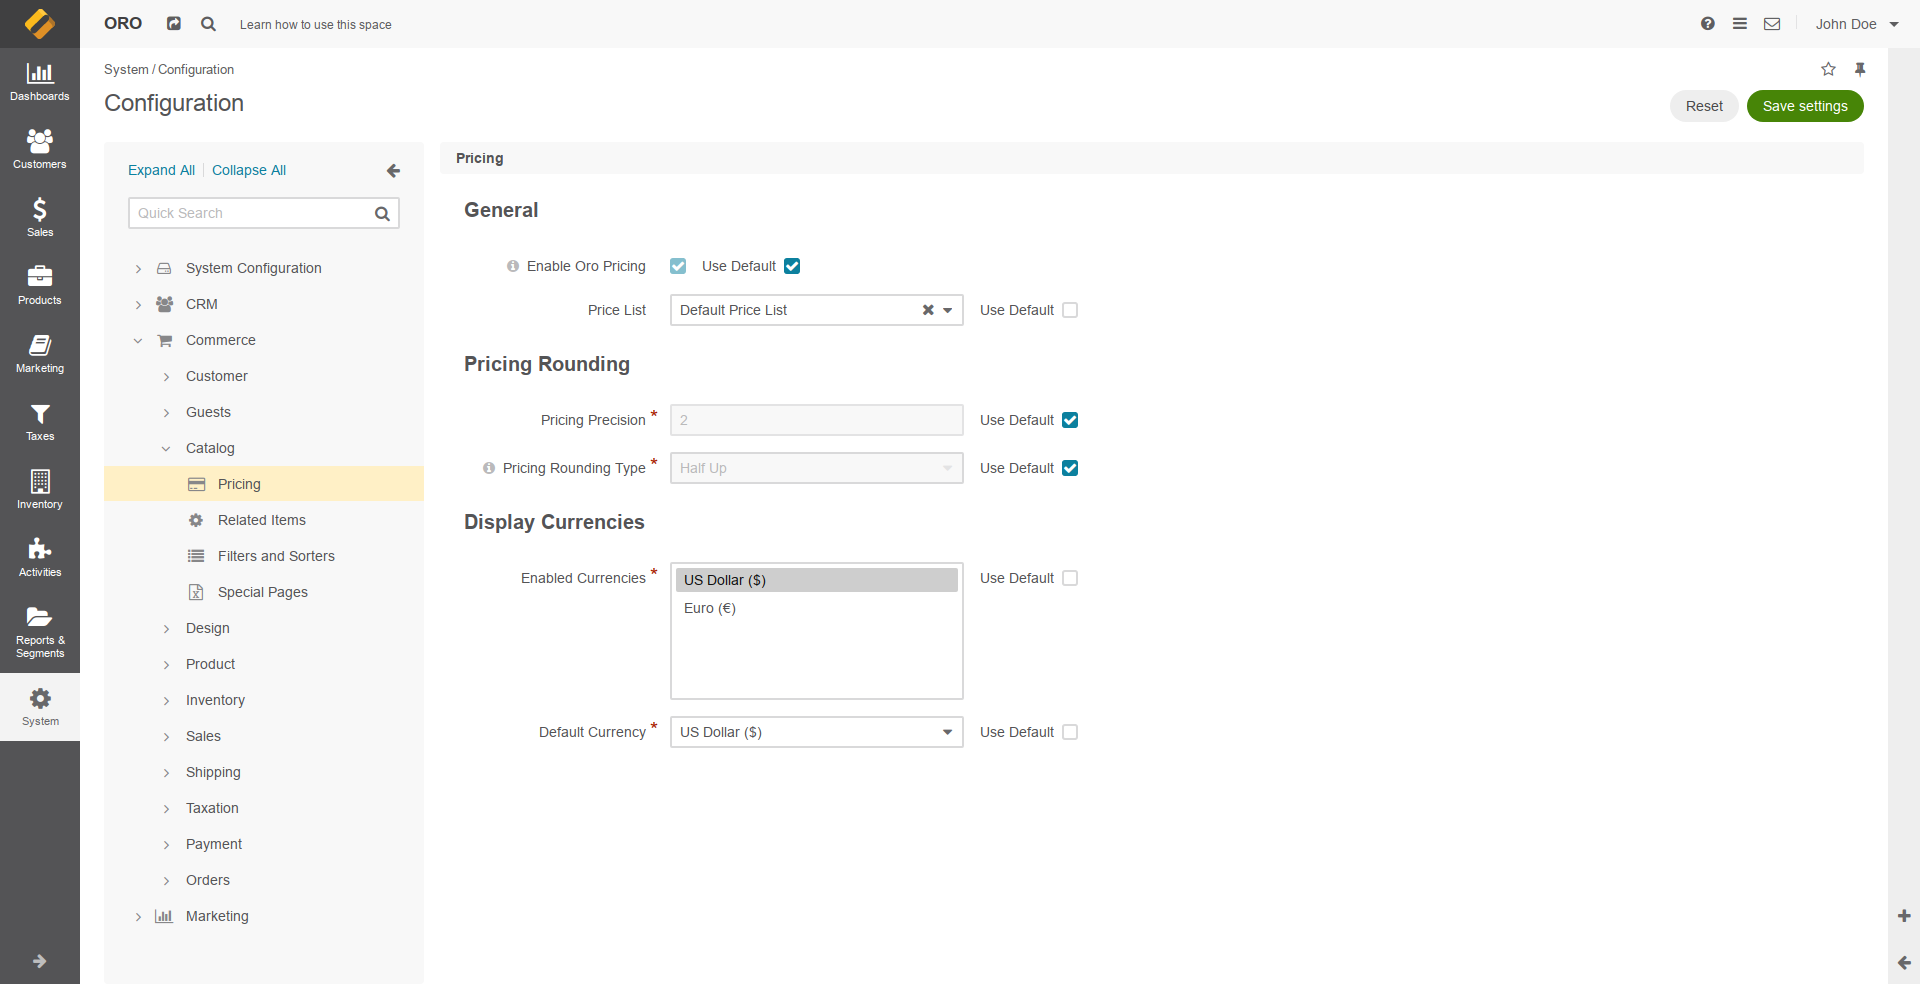
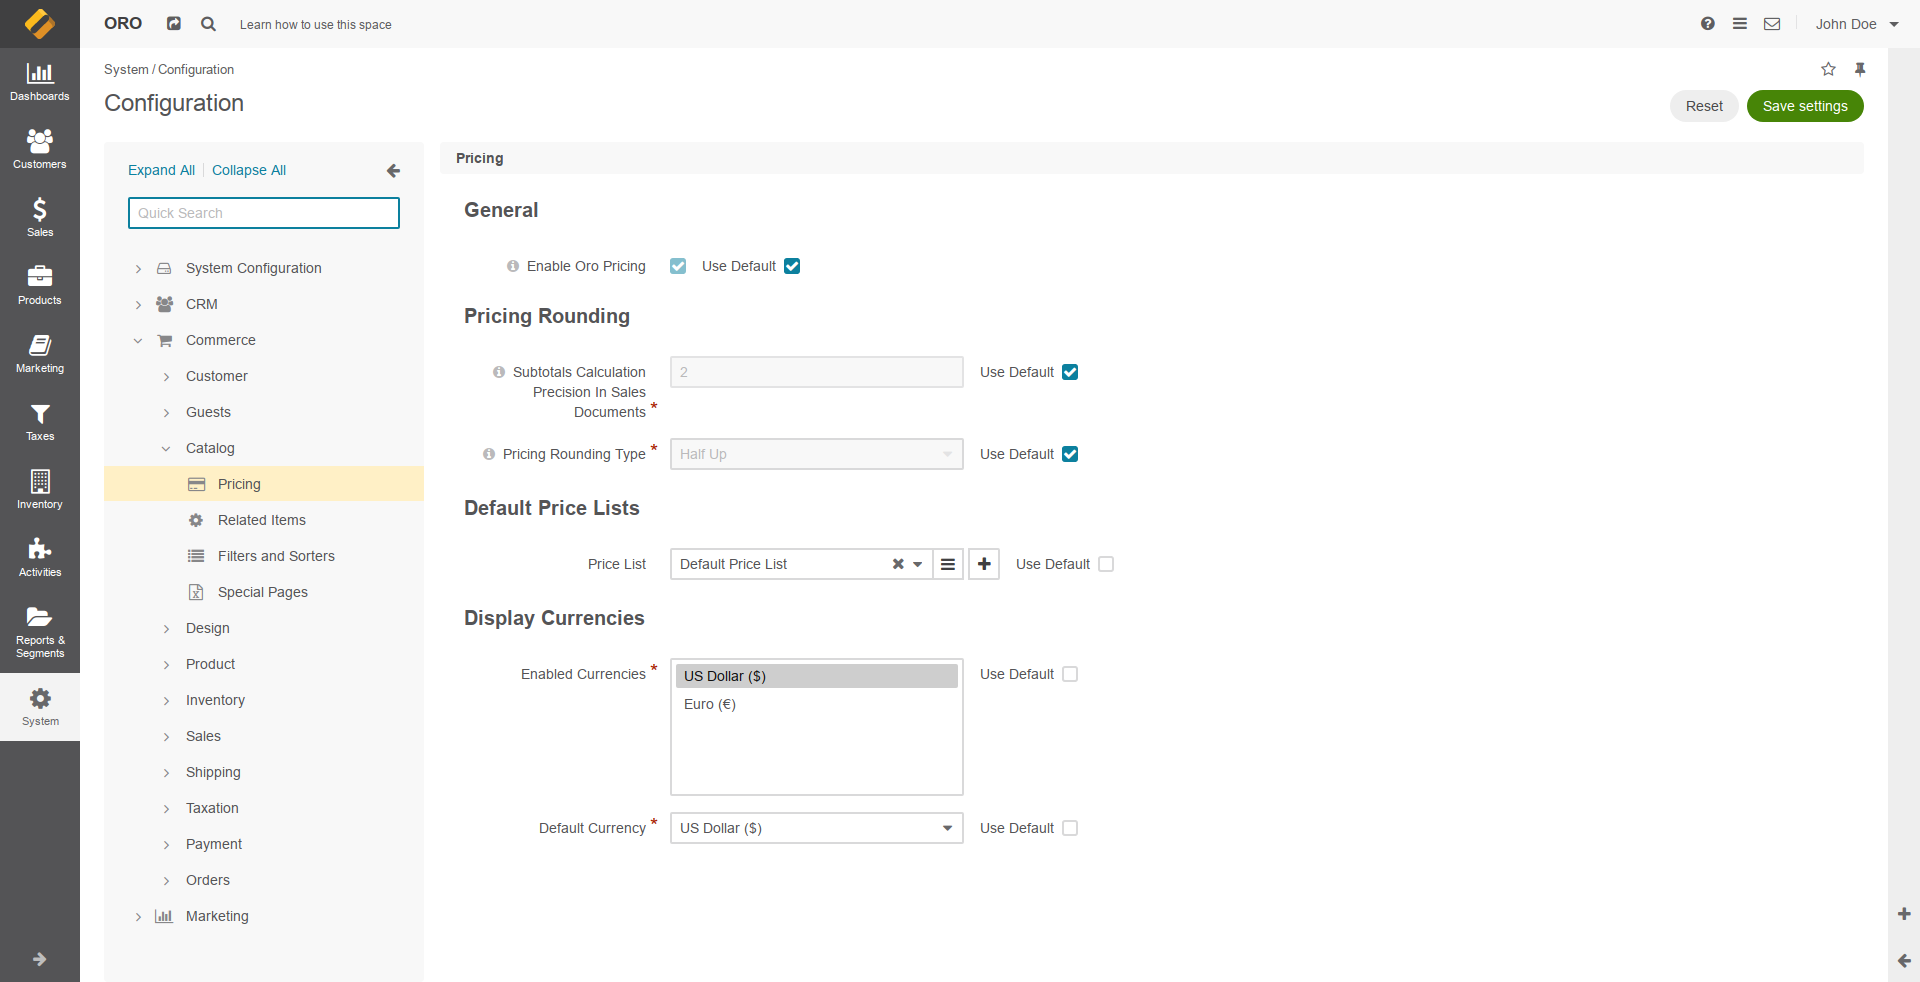
DOC-1747: Adjusted screenshot of Pricing config options on global level. Updated org level documentation. (#30957)
* DOC-1747: Adjusted screenshots of all config options on global level. Updated org level documentation and explained the different between CPL and Flat Pricing.

diff --git a/user/back-office/system/configuration/commerce/catalog/global-pricing.rst b/user/back-office/system/configuration/commerce/catalog/global-pricing.rst
@@ -31,14 +31,14 @@ Global pricing configuration helps you:
 
 To change the default global pricing settings:
 
+.. note::
+   For faster navigation between the configuration menu sections, use :ref:`Quick Search <user-guide--system-configuration--quick-search>`.
+
 1. Navigate to **System > Configuration** in the main menu.
 
 2. Select **Commerce > Catalog > Pricing** in the menu to the left.
 
-.. note::
-   For faster navigation between the configuration menu sections, use :ref:`Quick Search <user-guide--system-configuration--quick-search>`.
-
-The **Pricing** page opens. It contains the following information:
+  The following options are available on the **Pricing** page:
 
    .. image:: /user/img/system/config_commerce/catalog/pricing_sys_config.png
       :class: with-border
@@ -46,7 +46,7 @@ The **Pricing** page opens. It contains the following information:
 
    * **Enable Oro Pricing** --- By default, this option is enabled. When disabled, all pricing stored in and managed by the default OroCommerce pricing management system becomes hidden from the application. Disable Oro Pricing when you need to introduce a custom pricing management system for storing and fetching prices.
 
-   * **Subtotals Calculation Precision in Sales Documents** --- The number of digits allowed in the fractional part of the subtotals, totals and taxes calculated in shopping lists, checkout, orders, and RFQs. For example, with precision for sales documents set to 2, even when the original precision of prices is 4, such as $10.0001, the subtotals and taxes will be rounded to 2 digits.
+   * **Subtotals Calculation Precision in Sales Documents** --- The number of digits allowed in the fractional part of the subtotals, totals, and taxes calculated in shopping lists, checkout, orders, and RFQs. For example, with precision for sales documents set to 2, even when the original precision of prices is 4, such as $10.0001, the subtotals and taxes will be rounded to 2 digits.
    * **Price Calculation Precision in Price Lists** --- The number of digits allowed in the fractional part of the price calculation rule results. The results will be rounded using the "round half away from zero" rule (2.5 will be rounded to 3). If this value is empty, the system will not apply any rounding until the maximum supported price precision (4 digits) is reached.
    * **Pricing Rounding Type** --- The rounding type used when calculated product price has more digits in the fractional part than allowed by the respective price precision settings. These are the rounding settings used for price and tax calculations that happen in shopping lists, checkout, orders, and RFQs. Please use one of the following options:
 
@@ -66,9 +66,7 @@ The **Pricing** page opens. It contains the following information:
 
    * **Offset Of Processing CPL Prices** --- An offset (in hours) from the scheduled price change that determines how early the price list recalculation and reindex should happen to prepare the actual prices in the OroCommerce storefront for the scheduled launch. Delayed recalculation helps spread resource-consuming tasks in time and launch them only when the price is going to be used soon. This eliminates unnecessary intermediate recalculation every time the price is updated between the time price list schedule is added and the time when recalculation is expected to start (considering the offset from the scheduled launch). If you update the price once a week, set the offset to 40 (hours). If you update prices more frequently, set the value that approximately matches the delay between the updates of the price information. It can be aligned with the data synchronization process between your OroCommerce and the external ERP system. For continuos price updates use the minimal recommended offset value of 0.083 (5 minutes).
 
-   * **Pricing Strategy** --- The strategy that is used for a price lookup.
-
-     OroCommerce searches for the closest match of the product price in the selected units and currency for the requested product quantity in one of the following ways:
+   * **Pricing Strategy** --- The strategy used for matching prices. OroCommerce searches for the closest match of the product price in the selected units and currency for the requested product quantity in one of the following ways:
 
      - Using *Minimal Price* strategy --- From the default or customized set of price lists, OroCommerce collects all products prices that match product units, currency, and the requested product quantity, and selects the minimal price per tier and per unit as the one to show to the customer user:
 
@@ -88,19 +86,12 @@ The **Pricing** page opens. It contains the following information:
 
      .. note:: The **Display Currencies** field is only available in the Enterprise edition.
 
-     .. note:: The website level configuration has higher priority and overrides the global configuration settings.
-
      .. image:: /user/img/system/config_commerce/catalog/currency_on_the_front_store.png
         :alt: Display the currency selector in the storefront
 
    * **Default Currency** --- The currency that is used by default to show prices in the storefront.
 
-     .. note:: The website level configuration has higher priority and overrides the global configuration settings.
-
-3. To customize the option configuration:
-
-     a) Clear the **Use Default** check box next to the option.
-     b) Select or type in the new option value.
+3. To customize the option configuration, clear the **Use Default** check box next to the option and select or type in the new option value.
 
 #. To add a price list to the default price lists:
 

diff --git a/user/back-office/system/user-management/organizations/org-configuration/commerce/catalog/pricing.rst b/user/back-office/system/user-management/organizations/org-configuration/commerce/catalog/pricing.rst
@@ -2,20 +2,36 @@
 
 .. _configuration--guide--commerce--configuration--catalog--pricing--organization:
 
-Configure (Flat) Pricing Settings per Organization
-==================================================
+Configure Pricing Settings per Organization
+===========================================
 
-.. hint:: This section is a part of the :ref:`Price Management <user-guide--pricing>` topic that provides the general understanding of pricing concept in Oro applications.
+.. hint::
+    This section is a part of the :ref:`Price Management <user-guide--pricing>` topic that provides the general understanding of pricing concept in Oro applications.
 
-Flat pricing configuration helps you enable price lists for the relevant organization. Please, be aware that this configuration page is only available when :ref:`flat pricing is configured for your application <dev-guide-setup-flat-pricing>`. This is done by your system administrator via the console, not the application UI. If you do not have flat pricing enabled, this configuration page will not be displayed in the Commerce > Catalog settings list.
+OroCommerce comes with a Combined Price List (CPL) functionality built for the needs of large B2B businesses with multiple price lists, pricing strategies, price fallbacks, and price merges. If your operate a small-scale business without complex pricing, or use an external third-party pricing system to generate and manage prices outside of OroCommerce, you can :ref:`switch from the default CPL pricing to a simpler flat pricing <dev-guide-setup-flat-pricing>`. The Pricing configuration page on the organization level has different options, depending on whether you have CPL or flat pricing configured for your application.
 
-.. note:: The :ref:`website level <sys--website--edit--price-lists>` configuration has higher priority and overrides these configuration settings. :ref:`Customer group <customers--customer-groups--edit--price-lists>` configuration overrides configuration on the website level. Custom configuration on the :ref:`customer level <customers--customer-groups--edit--price-lists>` has the highest priority.
+With Standard Combined Pricing
+------------------------------
+
+With standard CPL pricing, you can change **Price Calculation Precision In Price Lists** on the organization level. Price Calculation Precision In Price Lists represents the number of digits allowed in the fractional part of the price calculation rule results. The results will be rounded using the "round half away from zero" rule (2.5 will be rounded to 3). If this value is empty, the system will not apply any rounding until the maximum supported price precision (4 digits) is reached.
+
+.. image:: /user/img/system/user_management/org_configuration/catalog/cpl-org-config-page.png
+   :alt: Pricing configuration page on the organization level with standard CPL pricing
+
+1. In the Pricing Rounding section, clear the **Use System** checkbox next to Price Calculation Precision In Price Lists.
+2. Provide the precision number.
+3. Click **Save Settings** on the top right.
+
+With Flat Pricing
+-----------------
+
+When you switch from CPL to flat pricing is :ref:`configured for your application <dev-guide-setup-flat-pricing>`, you can add price lists per organization, as described below:
 
 .. image:: /user/img/system/user_management/org_configuration/catalog/flat-pricing-organization-config.png
    :alt: Organization pricing configuration page when flat pricing is enabled
 
 To add a price list to the default price lists:
 
-1) Clear the **Use System** check box next to the option.
-2) Click **+ Add Price List** and select the price list in the newly added line. After you start typing the price list name, the list of suggestions that match your entry appears. Press **Enter** or click the suggested value to add the price list.
-3) Click **Save Settings**.
+1. Clear the **Use System** check box next to the option.
+2. Click **+ Add Price List** and select the price list in the newly added line. After you start typing the price list name, the list of suggestions that match your entry appears. Press **Enter** or click the suggested value to add the price list.
+3. Click **Save Settings** on the top right.

diff --git a/user/back-office/system/websites/web-configuration/commerce/catalog/website-pricing.rst b/user/back-office/system/websites/web-configuration/commerce/catalog/website-pricing.rst
@@ -8,7 +8,7 @@ Configure Pricing Settings (Currencies) per Website
 
 .. note:: The website level configuration has higher priority and overrides the global configuration settings.
 
-.. important:: Please, be aware that the configuration settings described below are for the default pricing feature (combined price list pricing) that comes out-of-the-box with your OroCommerce application. If you have :ref:`flat pricing configured for the whole application <dev-guide-setup-flat-pricing>` (a simple pricing engine without strategies and merges), then the configuration page will have the Display Currency and General/Price List Settings. Flat pricing is also available on :ref:`organization <configuration--guide--commerce--configuration--catalog--pricing--organization>` level. :ref:`It is enabled <dev-guide-setup-flat-pricing>` by your system administrator via the console, not the UI.
+.. important:: Please, be aware that the configuration settings described below are for the default pricing feature (combined price list pricing) that comes out-of-the-box with your OroCommerce application. If you have :ref:`flat pricing configured for the whole application <dev-guide-setup-flat-pricing>` (a simple pricing engine without strategies and merges), then the configuration page will have the Display Currency as well as General/Price List Settings. Flat pricing is also available on :ref:`organization <configuration--guide--commerce--configuration--catalog--pricing--organization>` level. :ref:`It is enabled <dev-guide-setup-flat-pricing>` by your system administrator via the console, not the UI.
 
           .. image:: /user/img/system/websites/web_configuration/flat-pricing-website-config.png
              :alt: Website pricing configuration page when flat pricing is enabled
@@ -29,10 +29,7 @@ To enable currencies per website:
 
    * **Default Currency** --- The currency that is used by default to show prices in the storefront.
 
-   To customize the option configuration:
-
-   a) Clear the **Use Organization** check box next to the option.
-   b) Select or type in the new option value.
+   To customize the option configuration, clear the **Use Organization** check box next to the option and select or type in the new option value.
 
 5. Click **Save Settings**.
 

diff --git a/bundles/platform/DashboardBundle/index.rst b/bundles/platform/DashboardBundle/index.rst
@@ -39,9 +39,9 @@ To view all configuration options, launch the `config:dump-reference` command:
 Add a New Widget
 ----------------
 
- A widget is a twig template that is displayed in the desired position on the dashboard. As an illustration,  let us create a widget that will display information in the form of a datagrid table.
+A widget is a twig template that is displayed in the desired position on the dashboard. As an illustration,  let us create a widget that will display information in the form of a datagrid table.
 
- To create such widget, first, make sure you create a grid using `datagrids.yml`. Below is an example of creating a `dashboard-recent-calls-grid` grid:
+To create such widget, first, make sure you create a grid using `datagrids.yml`. Below is an example of creating a `dashboard-recent-calls-grid` grid:
 
 .. code-block:: yaml
 

diff --git a/user/back-office/system/user-management/organizations/org-configuration/commerce/customers/organization-contact-us.rst b/user/back-office/system/user-management/organizations/org-configuration/commerce/customers/organization-contact-us.rst
@@ -14,8 +14,6 @@ To enable or disable the display of the form in the storefront per organization:
 .. note::
    For faster navigation between the configuration menu sections, use :ref:`Quick Search <user-guide--system-configuration--quick-search>`.
 
-The following page opens:
-
 .. image:: /user/img/system/user_management/org_configuration/customers/ContactUsOrg.png
 
 4. In **Contact Requests**, select the *Allow Contact Requests* check box to enable the Contact Us form.

diff --git a/user/back-office/system/user-management/organizations/org-configuration/index.rst b/user/back-office/system/user-management/organizations/org-configuration/index.rst
@@ -87,6 +87,7 @@ The following categories of settings are available for system configuration at o
 
     * :ref:`Filters and Sorters <configuration--guide--commerce--configuration--catalog--filters-sorters--organization>`
     * :ref:`Related Items <sys--users--organization--commerce--catalog--related-products>`
+    * :ref:`Pricing <configuration--guide--commerce--configuration--catalog--pricing--organization>`
 
   * Inventory
 

diff --git a/user/back-office/system/user-management/organizations/org-configuration/commerce/catalog/index.rst b/user/back-office/system/user-management/organizations/org-configuration/commerce/catalog/index.rst
@@ -8,4 +8,4 @@ Configure Catalog Settings per Organization
 
    Filters and Sorters <organization-filters-sorters>
    Related Products <organization-related-products>
-   (Flat) Pricing <pricing>
+   Pricing <pricing>
